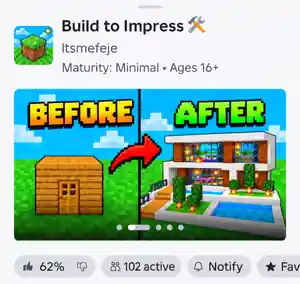
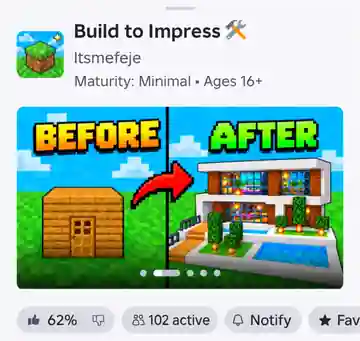
refine(home): improve full screenshot previews and assert natural image dimensions

diff --git a/index.html b/index.html
@@ -285,7 +285,7 @@
           <p class="rc-eyebrow">Roblox Creations</p>
           <h2 id="roblox-creations-title">My Roblox Creations.</h2>
           <p class="rc-intro">These are the games I've made so far. A lot of my time, effort and heart went into both of them, and I wanted to share a little of the story behind each one.</p>
-                  <button class="rc-motion-toggle" type="button" hidden aria-pressed="false" aria-label="Pause game icon animations" title="Pause game icon animations"><svg viewBox="0 0 24 24" fill="none" aria-hidden="true"><path class="rc-pause-glyph" d="M9 5v14m6-14v14" stroke="currentColor" stroke-width="2" stroke-linecap="round"/><path class="rc-play-glyph" d="m9 5 11 7-11 7z" fill="currentColor"/></svg></button>
+          <button class="rc-motion-toggle" type="button" hidden aria-pressed="false" aria-label="Pause game icon animations" title="Pause game icon animations"><svg viewBox="0 0 24 24" fill="none" aria-hidden="true"><path class="rc-pause-glyph" d="M9 5v14m6-14v14" stroke="currentColor" stroke-width="2" stroke-linecap="round"/><path class="rc-play-glyph" d="m9 5 11 7-11 7z" fill="currentColor"/></svg></button>
         </header>
 
         <div class="rc-projects">
@@ -345,7 +345,7 @@
             </header>
             <figure class="rc-media">
               <div class="rc-image-frame">
-                <img src="/assets/roblox-creations/dream-garage-tycoon.webp" width="300" height="293" loading="lazy" decoding="async" alt="Dream Garage Tycoon Roblox listing screenshot featuring the game title and three players on a podium with cars behind them.">
+                <img src="/assets/roblox-creations/dream-garage-tycoon.webp" width="360" height="351" loading="lazy" decoding="async" alt="Dream Garage Tycoon Roblox listing screenshot featuring the game title and three players on a podium with cars behind them.">
               </div>
               <figcaption><span>01 / Dream Garage Tycoon</span><span>Roblox screenshot · captured earlier</span></figcaption>
             </figure>
@@ -413,7 +413,7 @@
             </header>
             <figure class="rc-media">
               <div class="rc-image-frame">
-                <img src="/assets/roblox-creations/build-to-impress.webp" width="300" height="284" loading="lazy" decoding="async" alt="Build to Impress Roblox listing screenshot featuring the game title and a before and after comparison of a wooden house and a modern voxel mansion.">
+                <img src="/assets/roblox-creations/build-to-impress.webp" width="360" height="341" loading="lazy" decoding="async" alt="Build to Impress Roblox listing screenshot featuring the game title and a before and after comparison of a wooden house and a modern voxel mansion.">
               </div>
               <figcaption><span>02 / Build to Impress</span><span>Roblox screenshot · captured earlier</span></figcaption>
             </figure>

diff --git a/assets/roblox-creations/README.md b/assets/roblox-creations/README.md
@@ -1,2 +1,2 @@
 # Roblox creation assets
-The two WebP images are complete proportional copies of the newly supplied Roblox listing screenshots (Dream Garage Tycoon 937 × 914, Build to Impress 966 × 916). The committed transfer copies are 300 × 293 and 300 × 284 respectively. No crop, substitute artwork, image search or live stats were used. The visible listing statistics are historical screenshot content, not live measurements. Full-size WebP versions are available in the separately delivered asset pack and can replace the two files without changing layout; update the intrinsic width/height attributes to match. Original custom vector scenes are drawn inline, with continuous CSS motion only while visible and motion allowed. Direct experience share links were supplied by the website owner. No third-party animation library is used.
+The two WebP images are complete proportional copies of the newly supplied Roblox listing screenshots (Dream Garage Tycoon 937 × 914, Build to Impress 966 × 916). The committed transfer copies are 360 × 351 and 360 × 341 respectively. No crop, substitute artwork, image search or live stats were used. The visible listing statistics are historical screenshot content, not live measurements. Full-size WebP versions are available in the separately delivered asset pack and can replace the two files without changing layout; update the intrinsic width/height attributes to match. Original custom vector scenes are drawn inline, with continuous CSS motion only while visible and motion allowed. Direct experience share links were supplied by the website owner. No third-party animation library is used.
